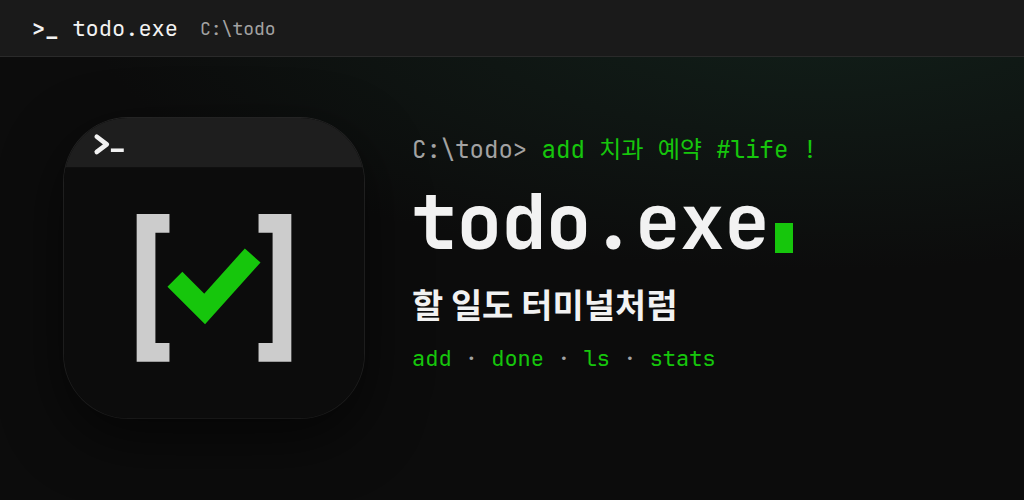
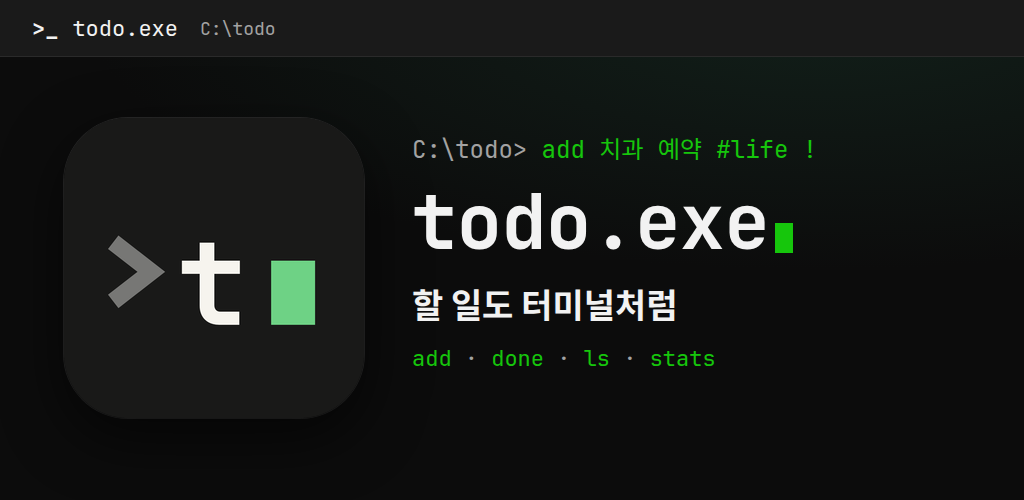
앱 아이콘 바꿈: MONO CURSOR (>  + 첫 글자 + 색 커서), 빌드 번호 올림
iOS · Android(적응형 포함) 아이콘, Play 512 아이콘 · 대표 이미지도 같이.

Claude-Session: https://claude.ai/code/session_017iZMWYbGKXjhd5bZRMzdGV

Changed region(s): [[0.0938, 0.42, 0.3125, 0.75], [0.0938, 0.27, 0.125, 0.33]]

diff --git a/design/icons/make-mono-cursor.js b/design/icons/make-mono-cursor.js
@@ -1,0 +1,31 @@
+// .exe 시리즈 앱 아이콘 (05 / MONO CURSOR): >  + 앱 첫 글자 + 색 커서.
+// 다시 그리기: node design/icons/make-mono-cursor.js  (playwright 필요)
+//   → design/icons/<앱>.png, <앱>-fg.png 가 생긴다. 이 앱 것을 assets/icon/icon.png, icon-foreground.png 로 복사하고
+//     dart run flutter_launcher_icons
+const { chromium } = require('playwright'); const fs = require('fs');
+const apps = { diary: ['d', '#FDDA62'], todo: ['t', '#6ED285'], ink: ['i', '#8DECFE'], camera: ['c', '#F45B52'] };
+const font = fs.readFileSync(__dirname + '/../../assets/fonts/JetBrainsMono-Bold.ttf').toString('base64');
+function svg(letter, color, bg) {
+  return `<svg xmlns="http://www.w3.org/2000/svg" viewBox="0 0 1024 1024" width="1024" height="1024">
+${bg ? '<rect width="1024" height="1024" fill="#191918"/>' : ''}
+<polyline points="168,424 298,525 168,626" fill="none" stroke="#777775" stroke-width="58" stroke-linejoin="miter" stroke-linecap="butt"/>
+<text x="508" y="706" text-anchor="middle" font-family="JBM" font-weight="700" font-size="398" fill="#F6F4EE">${letter}</text>
+<rect x="707" y="487" width="150" height="219" fill="${color}"/>
+</svg>`;
+}
+(async () => {
+  const b = await chromium.launch({ executablePath: '/opt/pw-browsers/chromium' });
+  const p = await b.newPage({ viewport: { width: 1024, height: 1024 } });
+  for (const [name, [letter, color]] of Object.entries(apps)) {
+    for (const bg of [true, false]) {
+      const s = svg(letter, color, bg);
+      await p.setContent(`<html><head><style>@font-face{font-family:JBM;src:url(data:font/ttf;base64,${font});font-weight:700}</style></head><body style="margin:0;background:transparent">${s}</body></html>`);
+      await p.evaluate(() => document.fonts.ready);
+      await p.waitForTimeout(100);
+      await p.screenshot({ path: `${__dirname}/${name}${bg ? '' : '-fg'}.png`, omitBackground: !bg, clip: { x: 0, y: 0, width: 1024, height: 1024 } });
+      // 원본 SVG (글자는 글꼴 이름만: 다시 그릴 때 make.js 를 쓴다)
+      if (bg) fs.writeFileSync(`${__dirname}/${name}.svg`, s);
+    }
+  }
+  await b.close();
+})();

diff --git a/design/play/feature-graphic.html b/design/play/feature-graphic.html
@@ -24,7 +24,7 @@ const A={
 }[a];
 document.getElementById('r').innerHTML=`<div class="c" style="--acc:${A.acc};--glow:${A.glow}">
 <div class="bar"><b>&gt;_</b><span>${A.name}</span><span class="d">C:\\${a}</span></div>
-<div class="icon"><img src="${a}.svg"></div>
+<div class="icon"><img src="${a}.png"></div>
 <div class="t"><div class="p">C:\\${a}&gt; <i>${A.cmd}</i></div><div class="n">${A.name}<span class="cur"></span></div>
 <div class="s">${A.sub}</div><div class="k">${A.keys.split(' · ').map(x=>'<span>'+x+'</span>').join(' · ')}</div></div></div>`;
 </script></body></html>
